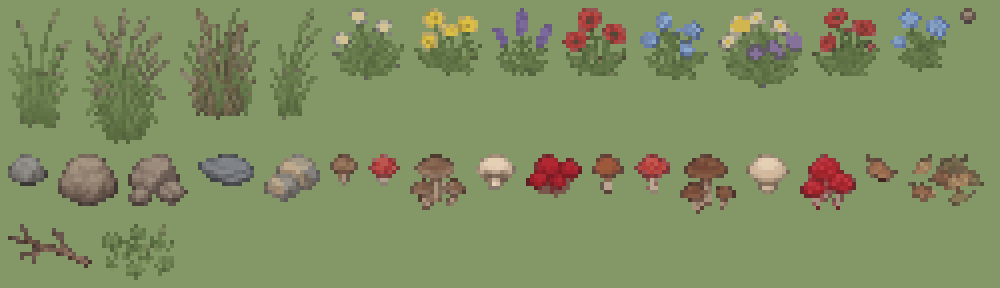
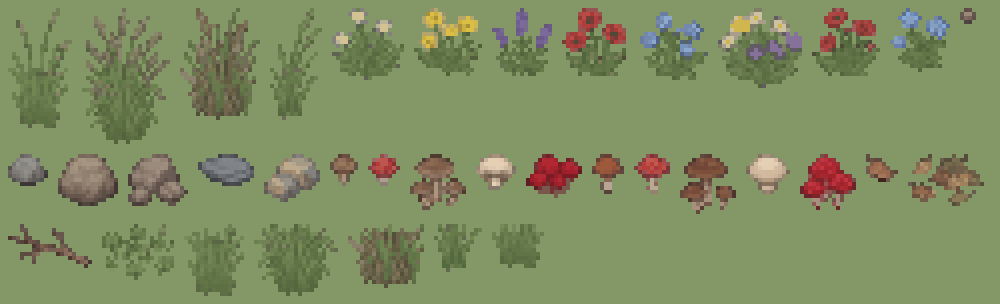
Grama média (3) e baixa (2) derivadas dos tufos altos; altas mantidas

diff --git a/decoracao_dados.js b/decoracao_dados.js
@@ -1,2 +1,2 @@
 // gerado por decoracao_do_gemini.mjs
[2 lines of base64/hex data omitted]

diff --git a/chao.html b/chao.html
@@ -36,7 +36,7 @@ function pinta(cx, cy, m) {
 const matDe = (cx, cy) => (cx < 0 || cy < 0 || cx >= M || cy >= M) ? null : MAP[cy][cx];
 // ---------- objetos (árvores) ----------
 const OBJS = { arvore1: { nome: 'Árvore 1', src: 'arvore_v3_sem_galho.png', cx: 64, by: 103 }, arvore2: { nome: 'Árvore 2', src: 'arvore_pl0.png', cx: 63, by: 90 }, arvore3: { nome: 'Árvore 3', src: 'arvore_v1_sem_galho.png', cx: 63, by: 106 }, arvore4: { nome: 'Árvore 1 espelhada', src: 'arvore_v3_sem_galho.png', cx: 64, by: 103, flip: true } };
-const DECOS = [['grama_alta_1', 'Grama alta 1'], ['grama_alta_2', 'Grama alta 2'], ['grama_alta_3', 'Grama alta 3'], ['grama_alta_4', 'Grama alta 4'], ['flor_margarida', 'Margarida'], ['flor_amarela', 'Flor amarela'], ['flor_lavanda', 'Lavanda'], ['flor_papoula', 'Papoula'], ['flor_papoula_b', 'Papoula 2'], ['flor_azul', 'Flor azul'], ['flor_azul_b', 'Flor azul 2'], ['flor_mista', 'Flores mistas'], ['pedra_mini', 'Pedrinha'], ['pedra_pequena', 'Pedra pequena'], ['pedra_grande', 'Pedra grande'], ['pedra_dupla', 'Pedras juntas'], ['pedra_chata', 'Pedra chata'], ['pedra_trio', 'Três pedras'], ['cogumelo_1', 'Cogumelo marrom'], ['cogumelo_2', 'Cogumelo vermelho'], ['cogumelo_3', 'Marrons juntos'], ['cogumelo_4', 'Cogumelo bege'], ['cogumelo_5', 'Vermelhos juntos'], ['cogumelo_6', 'Marrom grande'], ['cogumelo_7', 'Vermelho grande'], ['cogumelo_8', 'Marrons grandes'], ['cogumelo_9', 'Bege grande'], ['cogumelo_10', 'Vermelhos grandes'], ['folha_1', 'Folha seca'], ['folhas_monte', 'Folhas secas'], ['galho', 'Galho'], ['trevo', 'Trevos']];
+const DECOS = [['grama_alta_1', 'Grama alta 1'], ['grama_alta_2', 'Grama alta 2'], ['grama_alta_3', 'Grama alta 3'], ['grama_alta_4', 'Grama alta 4'], ['grama_media_1', 'Grama média 1'], ['grama_media_2', 'Grama média 2'], ['grama_media_3', 'Grama média 3'], ['grama_baixa_1', 'Grama baixa 1'], ['grama_baixa_2', 'Grama baixa 2'], ['flor_margarida', 'Margarida'], ['flor_amarela', 'Flor amarela'], ['flor_lavanda', 'Lavanda'], ['flor_papoula', 'Papoula'], ['flor_papoula_b', 'Papoula 2'], ['flor_azul', 'Flor azul'], ['flor_azul_b', 'Flor azul 2'], ['flor_mista', 'Flores mistas'], ['pedra_mini', 'Pedrinha'], ['pedra_pequena', 'Pedra pequena'], ['pedra_grande', 'Pedra grande'], ['pedra_dupla', 'Pedras juntas'], ['pedra_chata', 'Pedra chata'], ['pedra_trio', 'Três pedras'], ['cogumelo_1', 'Cogumelo marrom'], ['cogumelo_2', 'Cogumelo vermelho'], ['cogumelo_3', 'Marrons juntos'], ['cogumelo_4', 'Cogumelo bege'], ['cogumelo_5', 'Vermelhos juntos'], ['cogumelo_6', 'Marrom grande'], ['cogumelo_7', 'Vermelho grande'], ['cogumelo_8', 'Marrons grandes'], ['cogumelo_9', 'Bege grande'], ['cogumelo_10', 'Vermelhos grandes'], ['folha_1', 'Folha seca'], ['folhas_monte', 'Folhas secas'], ['galho', 'Galho'], ['trevo', 'Trevos']];
 for (const [id, nome] of DECOS) OBJS['d_' + id] = { nome, src: DECO_B64[id], deco: true };
 for (const o of Object.values(OBJS)) { o.im = new Image(); o.im.src = o.src; }
 let objetos = [];   // árvores: { x, y, id } com x,y = célula inteira · decorações: { x, y, id, f: 1 } com x,y = posição livre dentro do mapa (várias por célula, não bloqueiam)

diff --git a/NOTAS.md b/NOTAS.md
@@ -98,3 +98,4 @@ Losango **128×64** (lado de 3 m, igual ao mapa; personagem 55 px ≈ 1,75 m; pa
 - Decorações são **livres no mapa**: guardadas como `{x, y, id, f:1}` com x,y fracionários (várias por célula), não bloqueiam o personagem; arrastar espalha (espaço mínimo 0,5 célula); botão direito apaga a mais próxima (raio 0,5). Árvores continuam uma por célula, e bloqueiam. Mapas antigos com decorações em célula inteira são recentralizados ao abrir.
 - Decorações ocupam só os **pixels desenhados**: apagar = botão direito sobre um pixel visível (a de cima, com 1 px de tolerância); espalhar ao arrastar só coloca se os pixels não encostarem em outra decoração (clique simples sempre coloca). As imagens ficam embutidas em `decoracao_dados.js` (gerado por `decoracao_do_gemini.mjs`), pois o file:// bloqueia ler pixels de PNG solto. Depois de regerar as decorações, o `decoracao_dados.js` é refeito junto.
 - Verdes das decorações: `esverdeia()` em `decoracao_do_gemini.mjs` mantém só o brilho e repinta tudo que é verde com a rampa do chão (#3f4e30 … #6c7f50 #7a8e5a #849766 … #98ab78). Para o verde ficar mais claro/escuro ou mais perto do chão, mexa em `RAMPA` e no divisor `110` (faixa de brilho).
+- Grama média/baixa (`grama_media_1..3`, `grama_baixa_1..2`): derivadas dos tufos altos por `decoracao_do_gemini.mjs` (passo 3b: só a parte de baixo, corte irregular; fração de altura na lista). As altas continuam no painel para usos pontuais (ex.: beira de mata). As entradas `grama_media/baixa` do `gerar_decoracao.mjs` (feitas por código) ficaram sem uso.
